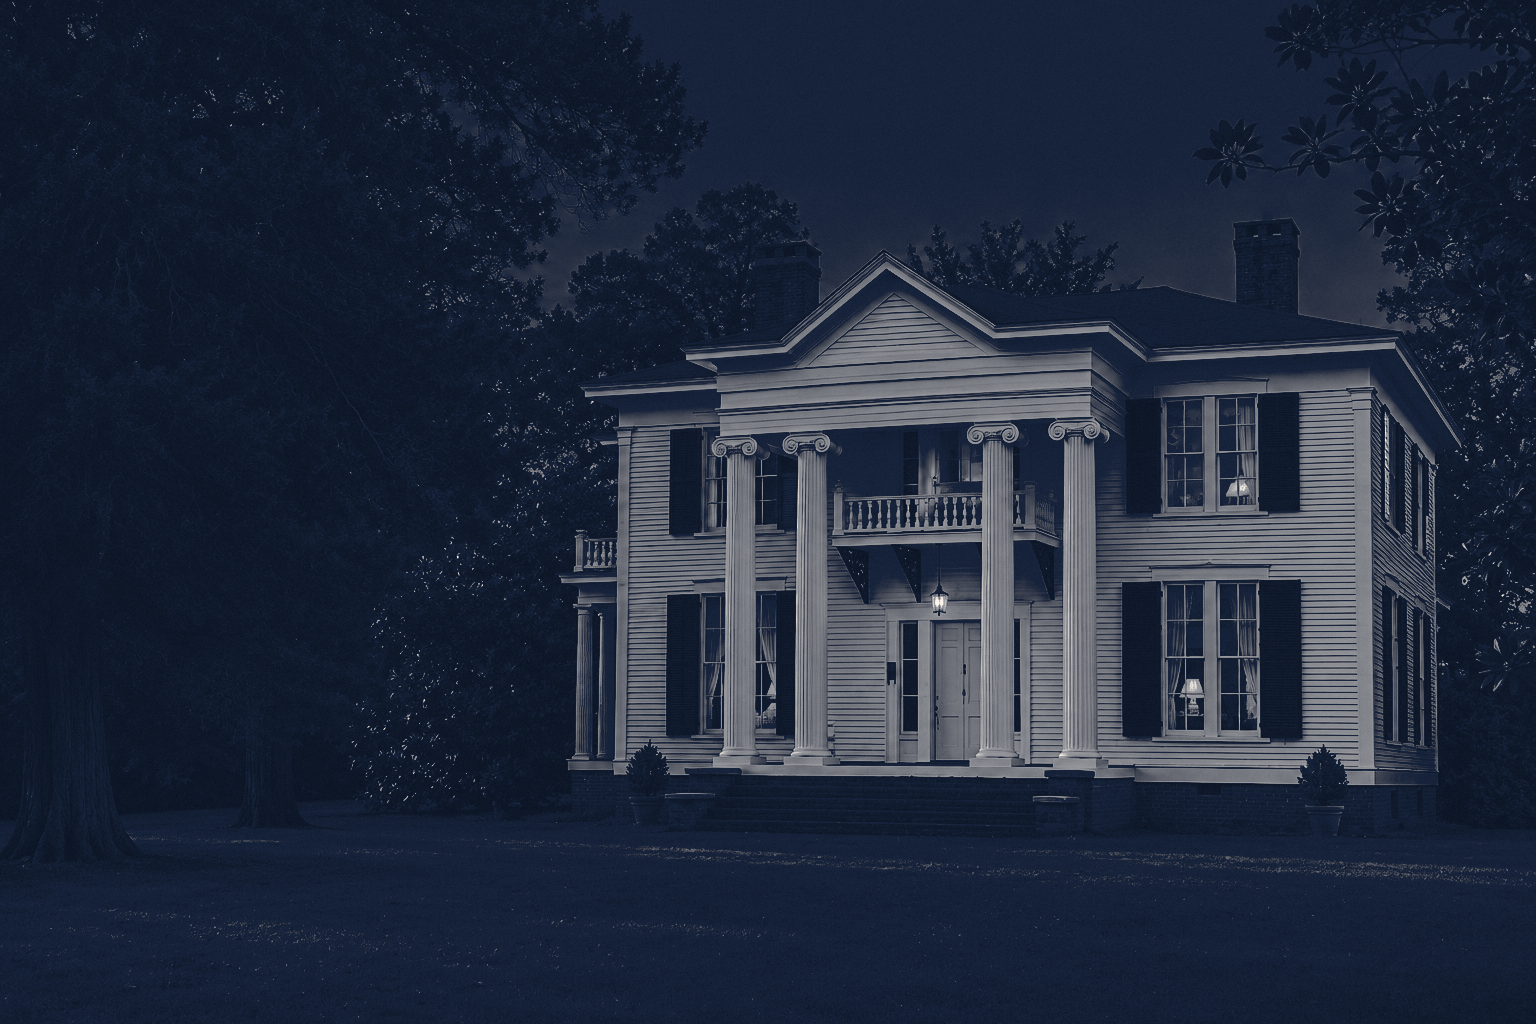
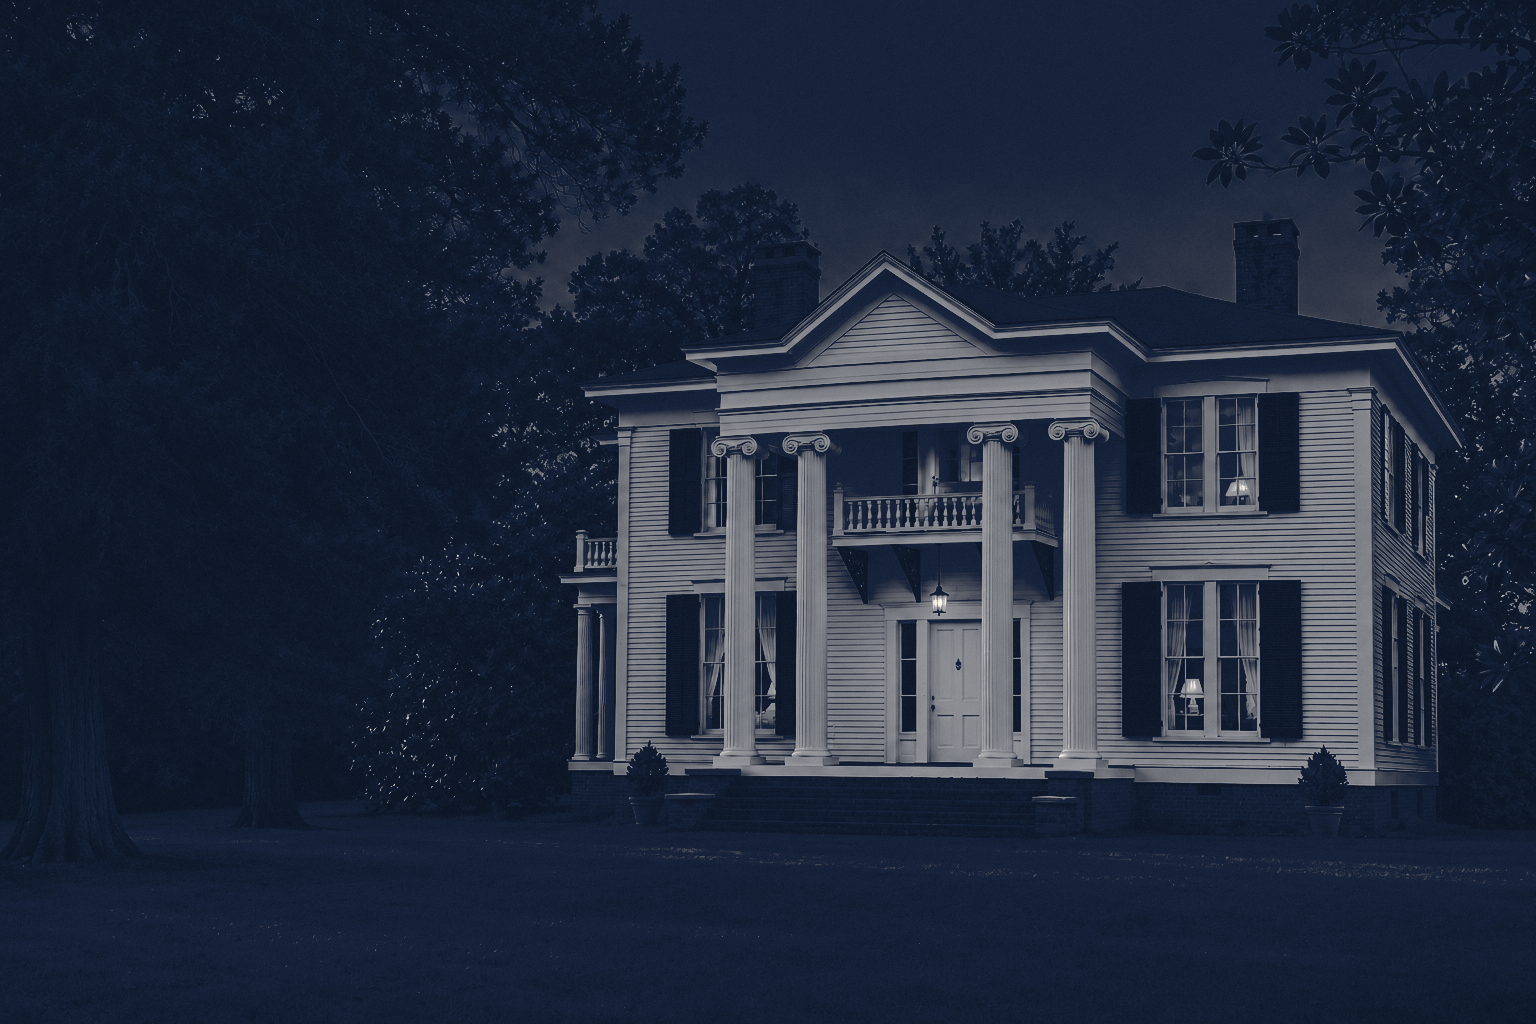
Portico: single-leaf door in the hero; thumb latch seen straight on
Regenerated with gpt-6-astra at max reasoning (Codex default was low). Records the model
settings and the built-in image tool's ~1.6 MP ceiling in the README.

diff --git a/assets/inbox/31-detail-11-door-front/NOTES.md b/assets/inbox/31-detail-11-door-front/NOTES.md
@@ -1,0 +1,85 @@
+# Brief 31: thumb-latch pull, straight-on view
+
+## Outputs
+
+| File | Pixel dimensions | Format |
+| --- | --- | --- |
+| raw-1.png | 1024 x 1536 | PNG |
+| raw-2.png | 1024 x 1536 | PNG |
+
+Created with the built-in image generation tool. The largest native portrait resolution was requested; the tool returned 1024 x 1536 for both outputs. The final PNGs are unchanged copies of the generated files, without resampling or color grading.
+
+Before saving, both complete images and enlarged handle crops were visually inspected. In both final variants the top and bottom plates are vertically aligned, and the grip runs straight between them without a sideways bow. No scores or rankings were assigned.
+
+The original photograph is `_ref/a-current.png`. The Yale reference and problem crop were used to understand the construction and incorrect orientation. None of the reference photographs is included as an inset or separate panel in the outputs.
+
+## Exact prompts used for the final variants
+
+Both variants share the first two passes below. Each final pass used the result of the common size-adjustment pass as its edit target. All calls used `transparent_background: false` and local referenced image paths.
+
+### Common first pass
+
+Edit target: `_ref/a-current.png`.
+
+```text
+Use case: precise-object-edit.
+EDIT ONLY THE SMALL DOOR HANDLE in the supplied full portrait photograph. Return the complete photograph, with the original framing and all other pixels preserved as closely as possible.
+Replace the existing bent brass pull with an antique Yale 2531 thumb latch seen absolutely square-on from the front. The required silhouette is a STRAIGHT VERTICAL GRIP. Its left and right edges run straight vertically, with zero sideways bow, zero arc, and no diagonal slant. The top attachment, midpoint, and bottom attachment are collinear at one single x-coordinate. A narrow vertical highlight and subtle side shadow show that the grip stands off the door. The outward curvature is in depth only and is invisible as a lateral curve in this frontal view.
+The complete fitting is small: approximately 64 pixels tall on this 1024 by 1536 source photograph. Center it at x=426, y=759. The top of the leaf-shaped thumb lever is around y=727, the top square plate centered at x=426, y=737, and the bottom square plate centered at x=426, y=786. Each plate is a small square, about 10 by 10 pixels, with screw heads. Keep both square plate centers EXACTLY vertically aligned at x=426. The grip between them is a narrow STRAIGHT VERTICAL brass bar, centered at x=426 throughout its length. The thumb lever points up and a little outward toward the viewer. Include a tiny bottom scroll viewed head-on and centered on the same vertical axis. The whole assembly, including thumb lever and scroll, is about one eighth of the door height, like an 11-inch fitting on an 80-inch door. Use warm aged brass, gentle patina, and soft existing lighting.
+Completely remove the original larger bowed handle and restore the small exposed area of white paint. The replacement stays on the left side of the door leaf close to its edge, below and left of the knocker.
+Preserve exactly the single-leaf four-panel door with NO center seam, the weathered brass knocker, sidelights, reflections, columns, lantern, brackets, shutters, clapboards, porch floor, steps, doormat, shadows, colors, camera viewpoint, and framing. Do not change anything beyond the handle and its immediate tiny shadow. No color grading.
+Output one portrait 2:3 image at the largest native portrait size supported by the tool, preferably 2048 by 3072 if available. No crop, inset, detail view, diagram, collage, reference photo, tabletop, people, text, numbers, mailbox, logos, watermark, or added objects.
+```
+
+### Common size-adjustment pass
+
+Edit target: the generated result of the common first pass.
+
+```text
+Use case: precise-object-edit.
+Make one tiny local correction to the supplied full portrait door photograph: reduce the size of the brass thumb-latch handle on the left edge of the white door leaf. Keep its center in exactly the same place. Scale the ENTIRE handle assembly, including both square screw plates, leaf thumb lever, straight grip, and small lower scroll, uniformly to 72 percent of its current height and width. Its total height must be about one eighth of the door leaf height, approximately 64 to 66 pixels on this 1024 by 1536 photograph, equivalent to an 11-inch handle on an 80-inch door. Restore the white door paint where the previous larger handle was.
+Preserve the already-correct frontal geometry: two small square brass escutcheon plates with screws centered exactly one above the other, a narrow nearly straight vertical grip sharing the same vertical axis, a leaf-shaped thumb lever pointing up and slightly outward toward the viewer, and a little bottom scroll. The grip's center must remain on the vertical line through both plate centers. No sideways curve, bow, diagonal, or lateral offset. Its standoff from the door is conveyed by soft shading and a restrained highlight. Retain warm aged brass with patina and a realistic antique Yale 2531 character.
+Change only this handle and its tiny immediate shadow. Preserve the exact single-leaf four-panel door with NO central seam, the weathered brass knocker, sidelights, reflections, columns, lantern, brackets, shutters, clapboards, brick floor, brick steps, doormat, light, colors, and full original framing. Do not retouch any other part of the photograph. No color grading.
+Return one full 2:3 PORTRAIT photograph at the largest native resolution the tool supports. No zoom, crop, inset, comparison, copied reference photos, people, text, numbers, mailbox, logo, watermark, or added objects.
+```
+
+### raw-1.png final pass
+
+Edit target: the generated result of the common size-adjustment pass.
+
+```text
+Use case: precise-object-edit.
+Edit only the small brass door handle in this full portrait photo. Make the complete handle assembly 15 percent shorter and 15 percent narrower, retaining the same center point on the left edge of the door leaf. This last small size adjustment should make its total height approximately one eighth of the door leaf height, about 11 inches on an 80-inch door. The top leaf-shaped thumb lever, both small square screw plates, straight vertical grip, and tiny lower scroll all belong to this compact assembly.
+Keep the top and bottom square escutcheon plates exactly aligned on one vertical axis. Keep the main grip straight vertically with absolutely no sideways bow or diagonal drift. Its soft highlight and small cast shadow convey projection toward the viewer. Preserve the leaf thumb lever pointing upward and slightly outward, and the little rolled scroll at the bottom viewed square-on. Maintain photorealistic warm aged brass with patina.
+Preserve everything outside the handle and its immediate tiny shadow exactly, including all white door paint and four panel moldings, the single door leaf with NO center seam, brass knocker, sidelights and reflections, columns, lantern, brackets, shutters, clapboards, doormat, brick floor, steps, lighting, colors, perspective, and framing. Restore only the tiny areas exposed by shrinking the handle. No color grading or other retouching.
+Return one full-frame 2:3 PORTRAIT photograph at the largest native portrait resolution the tool supports. No crop or zoom. No reference-photo insert, comparison panel, people, text, numbers, mailbox, logos, watermark, or new objects.
+```
+
+### raw-2.png final pass
+
+Edit target: the generated result of the common size-adjustment pass.
+
+```text
+Use case: precise-object-edit.
+Edit only the small brass door handle in this full portrait photo. Make the complete handle assembly 15 percent shorter and 15 percent narrower, retaining the same center point on the left edge of the door leaf. This last small size adjustment should make its total height approximately one eighth of the door leaf height, about 11 inches on an 80-inch door. The top leaf-shaped thumb lever, both small square screw plates, straight vertical grip, and tiny lower scroll all belong to this compact assembly.
+Keep the top and bottom square escutcheon plates exactly aligned on one vertical axis. Keep the main grip straight vertically with absolutely no sideways bow or diagonal drift. Its soft highlight and small cast shadow convey projection toward the viewer. Preserve the leaf thumb lever pointing upward and slightly outward, and the little rolled scroll at the bottom viewed square-on. Maintain photorealistic warm aged brass with patina.
+Preserve everything outside the handle and its immediate tiny shadow exactly, including all white door paint and four panel moldings, the single door leaf with NO center seam, brass knocker, sidelights and reflections, columns, lantern, brackets, shutters, clapboards, doormat, brick floor, steps, lighting, colors, perspective, and framing. Restore only the tiny areas exposed by shrinking the handle. No color grading or other retouching.
+Return one full-frame 2:3 PORTRAIT photograph at the largest native portrait resolution the tool supports. No crop or zoom. No reference-photo insert, comparison panel, people, text, numbers, mailbox, logos, watermark, or new objects.
+Variant detail: within the brass hardware only, allow a subtle alternate distribution of the existing aged patina and restrained warm highlights. Keep its shape, scale, and straight vertical alignment identical to the requested geometry.
+```
+
+## Earlier regenerated attempt
+
+An earlier candidate still showed a sideways bow when enlarged and was not saved as a final variant. Its exact prompt is retained below for completeness. Input images, in order: `_ref/a-current.png`, `_ref/b-yale-2531.png`, `_ref/c-problem-crop.png`.
+
+```text
+Use case: precise-object-edit.
+Create one photorealistic edited variant of Image 1, a-current.png. Edit only the existing small brass thumb-latch handle on the left edge of the central white door leaf.
+Input roles: Image 1 is the only edit target and the complete composition to preserve. Image 2, b-yale-2531.png, is a reference for the antique Yale 2531 handle's construction, square screw plates, leaf thumb lever, scroll terminal, and aged brass finish. Its tabletop side view is NOT the orientation to render. Image 3, c-problem-crop.png, shows the incorrect sideways-bowing handle to replace; do NOT reproduce that bowed silhouette.
+Correct front elevation: the Yale 2531 is mounted on the vertical door and viewed square-on from directly in front. Its S-curve projects perpendicular to the door surface, toward the viewer, not across the door. From this view the main grip is nearly straight and strictly vertical. Put the two small square brass escutcheon plates, each with visible screw heads, exactly above one another on the same vertical centerline. The grip runs straight up and down along that shared centerline between the plates. Its middle must not drift to the right or left. Convey its standoff depth only through soft shading, a narrow warm highlight, and a subtle cast shadow. Include the little leaf-shaped thumb lever rising from the top plate, pointing up and slightly outward toward the viewer, plus the small bottom scroll terminal tucked along the vertical axis.
+Position and size: retain the existing handle location close to the left edge of the single door leaf, below and left of the knocker. Make the complete assembly about one eighth of the door leaf height, approximately an 11-inch handle on an 80-inch door. In the 1024 by 1536 input, its centerline is approximately x=426 and its center approximately y=759, with total height about 64 to 66 input pixels. Remove the old sideways bow cleanly and restore the surrounding white door paint. Do not alter the door panel moldings.
+Materials: warm aged brass with natural patina, soft photographic shading matching the existing light. Use the reference's antique character without a bright modern polished finish.
+Strict preservation: change only this handle and its immediate shadow. Preserve the exact photograph, single-leaf four-panel white door with NO central seam, weathered brass knocker, sidelights and their reflections, columns, lantern, black brackets, shutters, clapboards, brick porch floor, brick steps, doormat, light, colors, perspective, and full framing. Do not redraw, recompose, crop, zoom, relight, sharpen, or color-grade the rest.
+Output: one portrait image in the original 2:3 aspect ratio at the largest native portrait resolution available. Keep the entire original scene. No inset, no comparison panel, no copied reference photo, no tabletop. No people, text, numbers, mailbox, logo, watermark, added objects, or other changes.
+```
+

diff --git a/assets/inbox/30-hero-11-house-door/NOTES.md b/assets/inbox/30-hero-11-house-door/NOTES.md
@@ -1,0 +1,47 @@
+# Brief 30: hero front door correction
+
+Generated with the built-in image generation tool. No color grading or other post-processing was applied to the delivered PNGs.
+
+## Outputs
+
+| File | Pixel dimensions | Format |
+| --- | --- | --- |
+| raw-1.png | 1536 x 1024 | PNG |
+| raw-2.png | 1536 x 1024 | PNG |
+
+Both outputs retain the full 3:2 landscape frame. The prompts requested the largest native resolution available; the tool returned 1536 x 1024 pixels. The delivered files are unscaled tool outputs.
+
+Both entrances were inspected in enlarged crops before saving the final variants. Each shows one white leaf with four panels and an uninterrupted center stile, with no vertical meeting seam. The crops were used only for inspection and are not deliverables.
+
+## Exact prompt for raw-1.png
+
+Inputs, in order: _ref/a-current.png as the edit target, and _ref/b-real-door.png as the architectural reference.
+
+```text
+Use case: precise-object-edit.
+Edit target: Image 1, a-current.png, the full landscape photograph of the white house at dusk.
+Architectural reference only: Image 2, b-real-door.png. Use only its single-door construction and panel proportions. Do not reproduce the reference photograph, daylight, mailbox, black hardware, porch objects, or framing.
+
+Make one extremely localized correction to the front entrance under the portico in Image 1. Repaint the existing door as ONE SINGLE white painted door leaf with exactly FOUR raised panels in exactly TWO ROWS and TWO COLUMNS. The TOP ROW consists of TWO TALL vertical panels, each extending continuously from near the top of the door down to approximately two-thirds of the door height. The BOTTOM ROW consists of TWO SHORT rectangular panels. There is only ONE horizontal cross rail between these two rows. The top panels have no horizontal subdivisions. DO NOT add a row of small panels above the tall panels. This is a FOUR-panel door, never a six-panel door. Match the four-panel arrangement visible in Image 2. Both pairs are part of the same continuous slab. Between the left and right panels is a solid, broad, uninterrupted white center stile. There must be NO center seam, NO central crack, NO central dark line, NO meeting edges, NO split, and nothing that reads as paired doors. The white center stile is visibly continuous through the horizontal middle rail. Only the outside perimeter has a door-to-frame gap.
+
+Match the real entrance's narrow sidelight windows and flat white entablature, keeping their existing placement, perspective, scale and foreground column occlusion in Image 1. Add only a very small muted warm-brass thumb-latch pull close to the LEFT outer edge of the single leaf, and one tiny warm-brass knocker centered in its upper part. The hardware must be subtle at this wide viewing distance, warm brass rather than dark or black. No hardware on the center line except the tiny upper knocker. Eliminate the erroneous extra handles. Keep entrance trim clean, with no mailbox.
+
+Freeze every pixel outside the front entrance correction as faithfully as possible. Preserve the entire original house, siding, portico, columns, capitals, balcony, balustrade, brackets, hanging lantern, shutters, roof, both chimneys, trees, foliage, lawn, sky, dusk exposure, window glow, color, shadows, texture, perspective, composition and framing. Preserve the original foreground columns exactly, including their occlusion of the entrance. No global color grading, relighting, sharpening, reinterpretation, reframing or cropping.
+
+Return one full landscape photograph at the largest native resolution supported by the image tool, maintaining Image 1's exact 3:2 aspect ratio and full composition. Do not return a close-up, collage, comparison, annotated image or reference photo. No people, text, house numbers, mailbox, TV antenna, vehicles, logos or watermark.
+```
+
+## Exact prompt for raw-2.png
+
+Input: raw-1.png, the first edited version of _ref/a-current.png. This additional built-in edit produced the second variant.
+
+```text
+Use case: precise-object-edit.
+Edit target: the supplied full landscape house photograph, raw-1.png, which is an edited version of a-current.png.
+Make only this tiny hardware correction: on the LEFT outer edge of the single white front door under the portico, replace the small round handle with a miniature, slender, warm-brass THUMB-LATCH PULL. It has a short vertical grip with a tiny thumbpiece above, about 8 pixels high at this 1536-pixel image width. Mount it on the actual door leaf, at approximately x=934, y=710 in the original frame. Its color is muted warm gold, with no black hardware. Retain the tiny brass knocker centered above.
+
+The door already has the correct FOUR raised panels. Preserve these exact FOUR panels: TWO continuous TALL panels in the TOP row and TWO SHORT panels in the BOTTOM row. Preserve its solid uninterrupted white center stile. Keep the door as a SINGLE leaf with NO center seam, crack, vertical meeting line or second handle. Do not add any panel subdivisions or extra top row.
+
+Preserve everything else in the supplied photograph exactly, including door geometry, sidelights, flat entrance entablature, foreground column occlusion, house, siding, all portico columns and capitals, balcony, brackets, lantern, shutters, roof, chimneys, trees, lawn, sky, dusk lighting, warm window glow, colors, shadows, composition and framing. No grading, relighting, cropping or reframing. Keep the original 3:2 landscape frame and use the largest native resolution supported by the image tool. Return one full landscape photograph, no close-up or comparison. No people, text, house numbers, mailbox, TV antenna, vehicles, logos or watermark.
+```
+

diff --git a/codex-briefs/31-detail-11-door-front.md b/codex-briefs/31-detail-11-door-front.md
@@ -1,0 +1,23 @@
+# Brief 31: thumb-latch pull, straight-on view (iteration 11, Portico)
+
+You are the illustrator. Work ONLY inside the current directory. Think carefully and verify your result before saving. Attached, in order:
+- `_ref/a-current.png`: the current door photograph. EDIT THIS ONE.
+- `_ref/b-yale-2531.png`: the real handle (a Yale 2531 thumb latch), photographed lying on a table, so its S-curve is seen from the side.
+- `_ref/c-problem-crop.png`: a crop of the current handle, which looks bent to the right.
+
+## Problem
+In the current image the handle's grip bows sideways to the right across the door face. That is wrong. When a Yale 2531 is mounted on a door and seen from the front, its S-curve projects OUTWARD toward the viewer, so from straight on the grip looks nearly STRAIGHT and VERTICAL.
+
+## Fix (change only the handle)
+Redraw the pull as seen square-on from the front: the two small square brass escutcheon plates (with screws) aligned exactly one above the other on the left side of the door leaf, near its edge; the grip running straight up and down between them, with only soft shading and a highlight that hint it stands off the door; the leaf-shaped thumb lever at the top plate pointing up and slightly outward; the small scroll at the bottom end. Overall length about one eighth of the door's height (about 11 inches on an 80 inch door). Warm aged brass with patina.
+
+Keep everything else exactly: the single-leaf four-panel door with NO seam, the weathered brass knocker, sidelights, columns, lantern, brackets, shutters, clapboards, brick floor and steps, light, and framing.
+
+## Method
+Use your built-in image generation tool to edit `a-current.png`, PORTRAIT, at the largest size the tool allows. Before saving, zoom in on the handle in your output and confirm both plates are vertically aligned and the grip does not bow sideways; regenerate if it does. Save two variants as `raw-1.png` and `raw-2.png`. Do not grade. Do not copy the reference photos into the output.
+
+## Must not appear
+No people, no text, no numbers, no mailbox, nothing else changed. No em dashes in any file.
+
+## Report
+Write `NOTES.md` with the exact prompt used and the pixel dimensions of each output.

diff --git a/codex-briefs/30-hero-11-house-door.md b/codex-briefs/30-hero-11-house-door.md
@@ -1,0 +1,23 @@
+# Brief 30: hero front door correction (iteration 11, Portico)
+
+You are the illustrator. Work ONLY inside the current directory. Think carefully and verify your result before saving. Attached, in order:
+- `_ref/a-current.png`: the current hero photograph. EDIT THIS ONE.
+- `_ref/b-real-door.png`: a reference photo of the entrance.
+- `_ref/c-problem-crop.png`: a crop of the current hero showing the problem.
+
+## Problem
+In the current hero, the front door under the portico reads as a PAIR of doors: a vertical seam runs down the middle, with dark hardware on both leaves. The real house has ONE door.
+
+## Fix (change only the front door)
+Repaint the entrance to match `b-real-door.png`: a single white door leaf with four raised panels (two tall above, two short below, one solid center stile, NO seam and nothing suggesting two leaves), flanked by narrow sidelight windows, under a flat entablature. Hardware is small and inconspicuous at this distance: a small warm-brass thumb-latch pull near the door's left edge and a small brass knocker centered on the upper part of the door. No dark or black hardware.
+
+Keep everything else in `a-current.png` exactly: the house, portico, columns, balcony, brackets, lantern, shutters, roof, chimneys, trees, lawn, sky, dusk light, window glow, composition, and framing.
+
+## Method
+Use your built-in image generation tool to edit `a-current.png`, landscape, at the largest size the tool allows. Before saving, zoom in on the door in your output and confirm there is no vertical seam; regenerate if there is. Save two variants as `raw-1.png` and `raw-2.png`. Do not grade. Do not copy the reference photos into the output.
+
+## Must not appear
+No people, no text, no house numbers, no mailbox, no TV antenna, no vehicles. No em dashes in any file.
+
+## Report
+Write `NOTES.md` with the exact prompt used and the pixel dimensions of each output.

diff --git a/README.md b/README.md
@@ -38,7 +38,8 @@ All copy lives in `src/content/site.ts`. Iterations read from it, so a wording c
 
 ## Assets
 
-- `codex-briefs/` every brief sent to Codex, numbered. Run one with `scripts/codex-run.sh codex-briefs/NN-slug.md`; output lands in `assets/inbox/NN-slug/` (the Codex CLI ships inside ChatGPT.app).
+- `codex-briefs/` every brief sent to Codex, numbered. Run one with `CODEX_MODEL=gpt-6-astra CODEX_EFFORT=max scripts/codex-run.sh codex-briefs/NN-slug.md` (or `codex-run-refs.sh` to attach every image in the brief's `_ref/`); output lands in `assets/inbox/NN-slug/`. The Codex CLI ships inside ChatGPT.app; its own default is a lighter model at low reasoning, so always set the two variables. Reference photos of private property stay in gitignored `_ref/` folders.
+- The built-in image tool returns about 1.6 megapixels regardless of the size requested. Larger output (up to 2160x3840) needs the OpenAI Images API and an API key.
 - Review every image before promotion: dimensions, palette, no people, no text, clean edges.
 - `node scripts/promote-asset.mjs assets/inbox/.../graded-1.png <name> --aspect 16:9` crops and resizes into `src/assets/img/`. Astro `<Picture>` emits AVIF, WebP and JPEG at 640/1024/1600/2400 with intrinsic dimensions.
 - `node scripts/make-icons.mjs <monogram.svg>` writes the favicon set; `node scripts/make-share-card.mjs <wordmark-cream.svg>` writes the 1200x630 share card.
